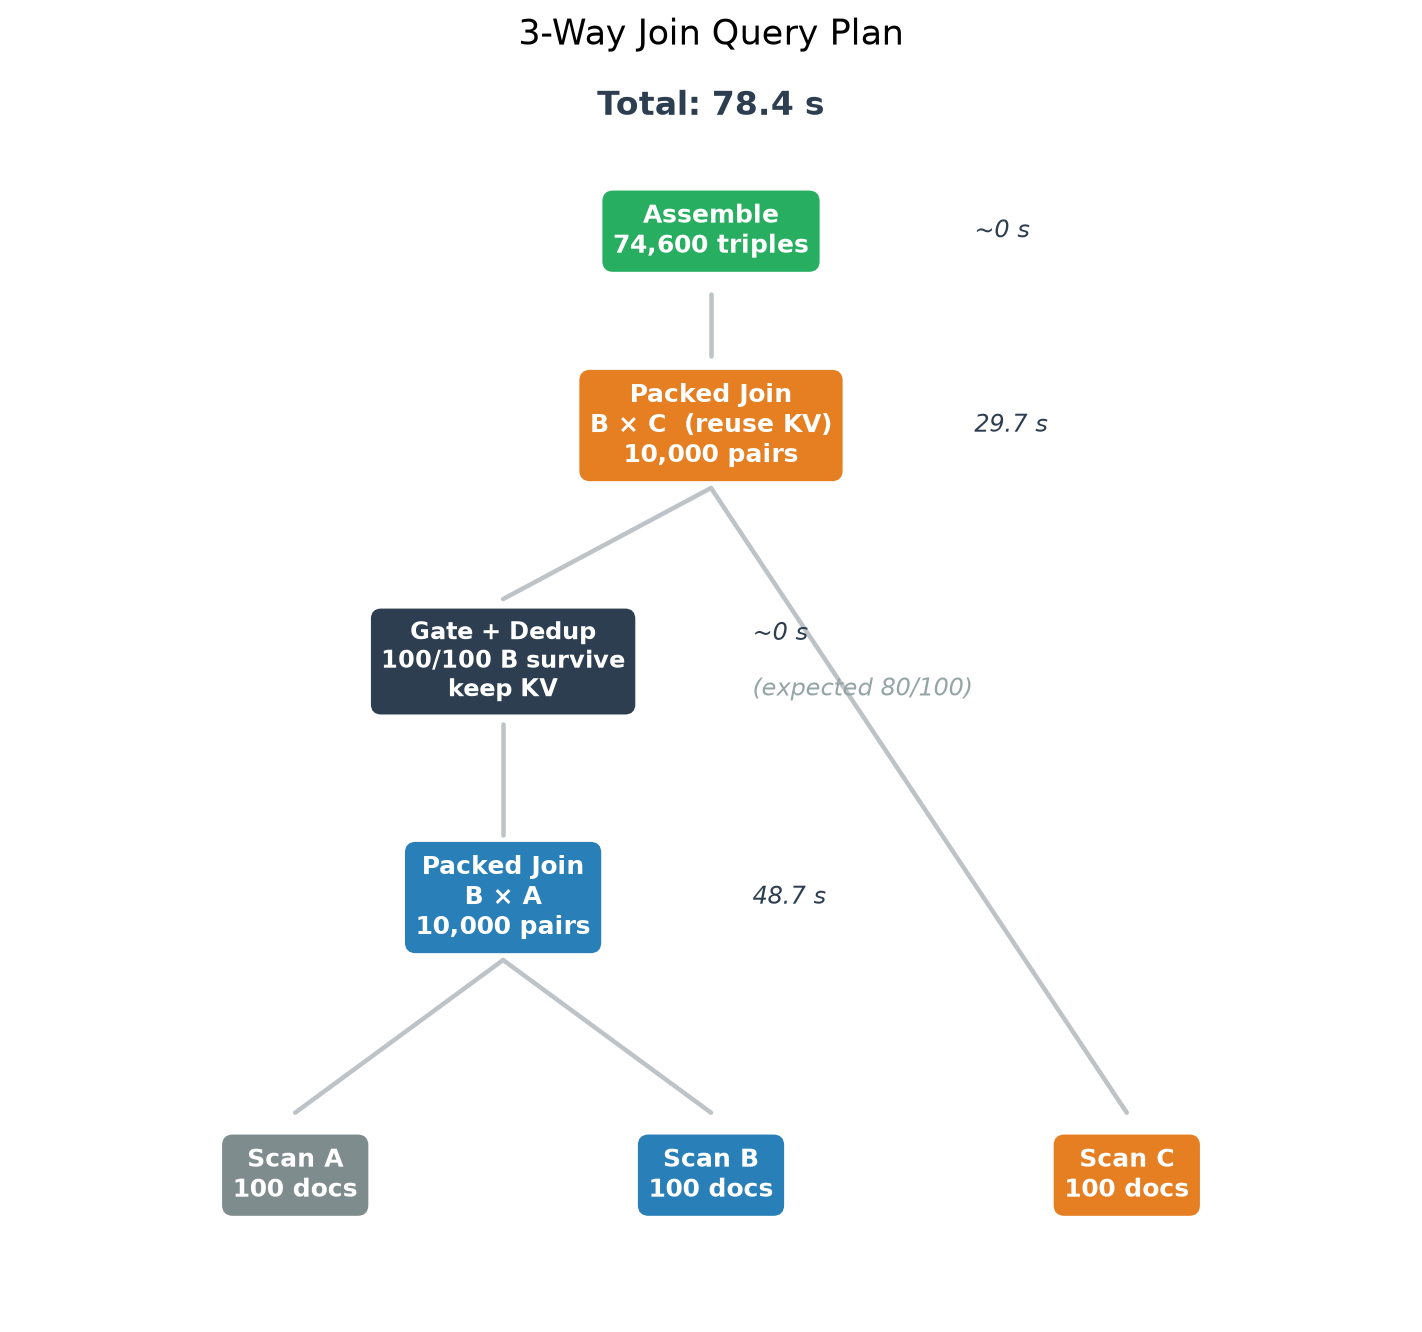
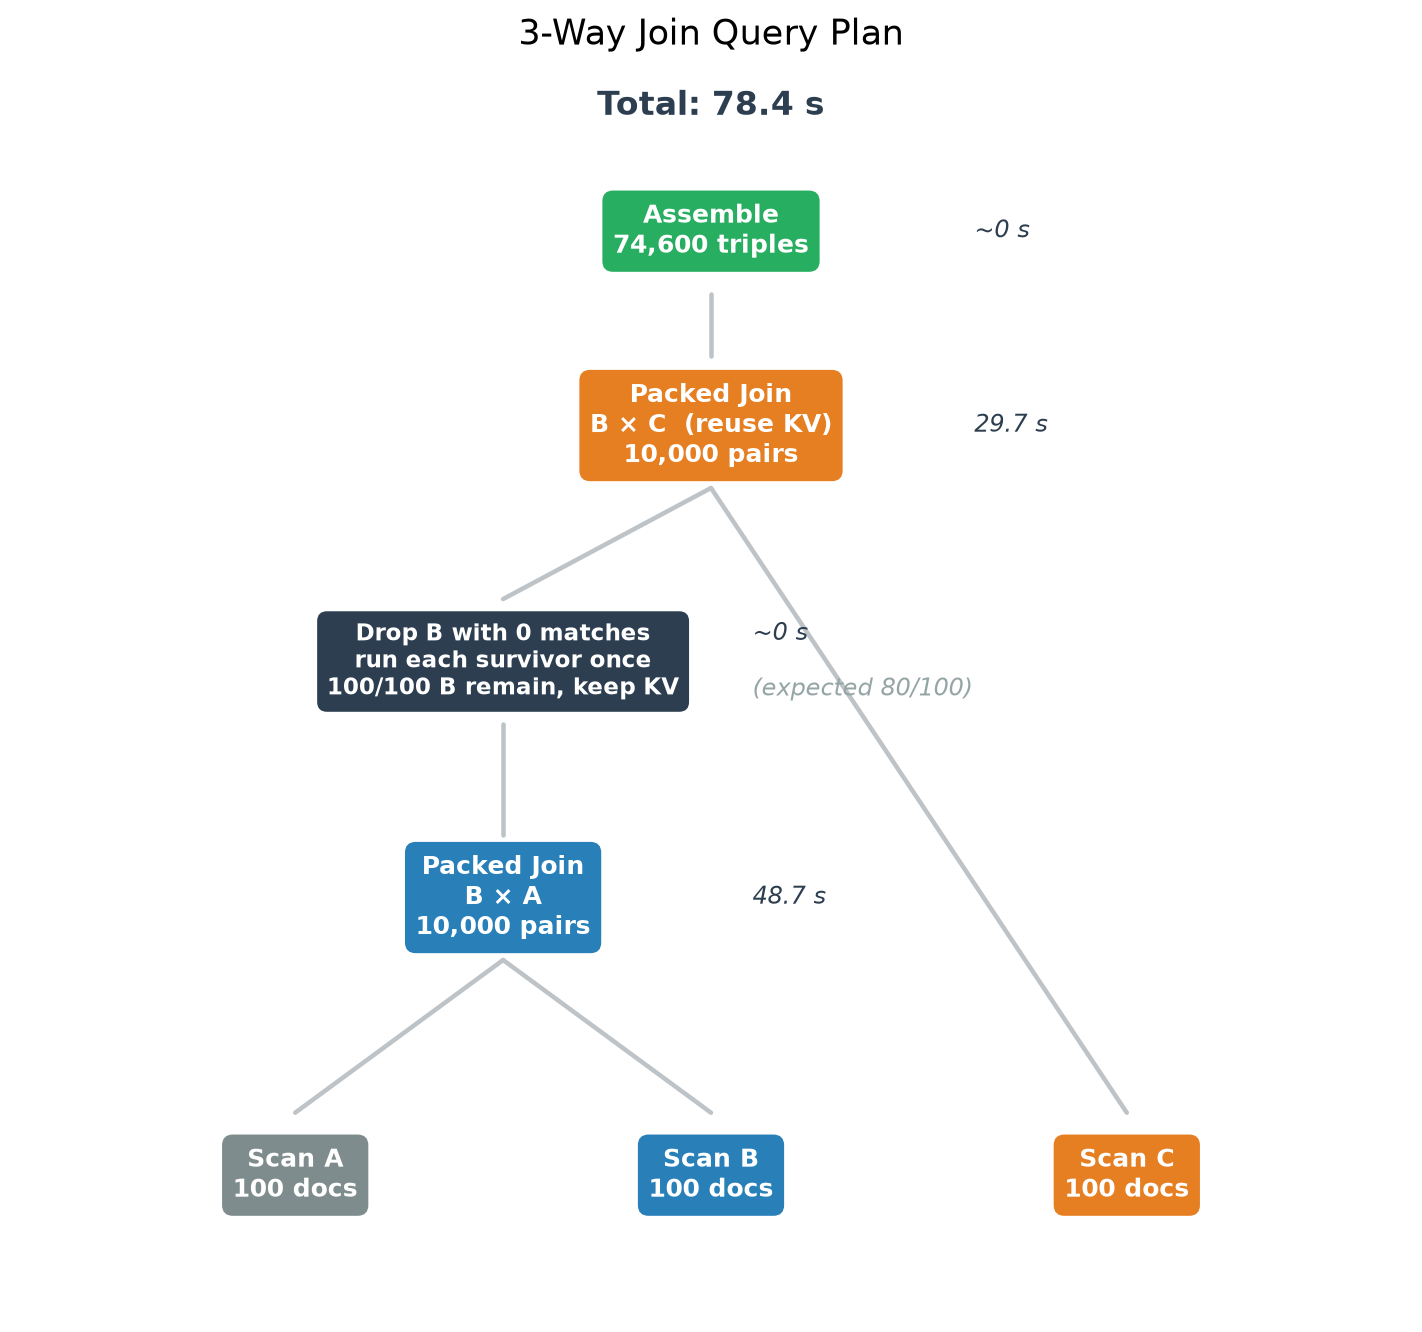
Remove jargon from 3-way query plan labels
Gate+Dedup -> "Drop B with 0 matches, run each survivor once"

Changed region(s): [[0.2166, 0.4617, 0.4951, 0.5541]]

diff --git a/results/engine/join_plots.py b/results/engine/join_plots.py
@@ -209,11 +209,12 @@ def nway_query_plan():
     node(3.5, 2.5, f"Packed Join\nB × A\n{n_b * n_a:,} pairs", "#2980b9")
     time_label(5.3, 2.5, f"{s1:.1f} s")
 
-    # gate + dedup
+    # filter: drop unmatched, run each survivor once
     edge(3.5, 2.95, 3.5, 3.75)
     node(3.5, 4.2,
-         f"Gate + Dedup\n{survivors}/{n_b} B survive\nkeep KV",
-         "#2c3e50", fontsize=9.5)
+         f"Drop B with 0 matches\nrun each survivor once\n"
+         f"{survivors}/{n_b} B remain, keep KV",
+         "#2c3e50", fontsize=9)
     time_label(5.3, 4.4, f"~0 s")
     time_label(5.3, 4.0,
                f"(expected {planted_expected}/{n_b})", color="#95a5a6")
